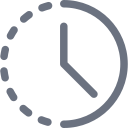
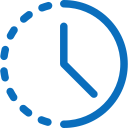
new colors for paid & pending status ui

diff --git a/static/css/invoice.css b/static/css/invoice.css
@@ -229,17 +229,22 @@ a:hover {
   background-color: transparent;
 }
 .desktop-table-intro td {
-  font-size: 1.8vh;
+  font-size: 1.9vh;
   font-family: var(--text-font);
   color: var(--main-color);
   letter-spacing: 1px;
   padding: 9px;
+  text-transform: lowercase;
+}
+.desktop-table-intro #client_name {
+  text-transform: capitalize;
+  font-size: 1.8vh;
 }
 #avatar-img {
   width: 30px;
 }
 #unpaid_status .badge {
-  background: #f3f4f6;
+  background: #b4d5ff9d;
   border-radius: 15px;
 }
 #paid_status .badge {
@@ -250,7 +255,7 @@ a:hover {
 .desktop-table-intro span {
   font-size: 1.7vh;
   font-family: var(--text-font);
-  color: #6b7280;
+  color: #0a6ebd;
   letter-spacing: 1px;
 }
 #clock-img {

diff --git a/invoice/templates/invoice/desktop-table.html b/invoice/templates/invoice/desktop-table.html
@@ -21,7 +21,7 @@
             <tbody>
               {% for invoice in invoices %}
               <tr id="search_invoice">
-                <td>
+                <td id="client_name">
                   <img
                     src="{{invoice.client_name.imageURL}}"
                     class="img-fluid rounded-circle"
